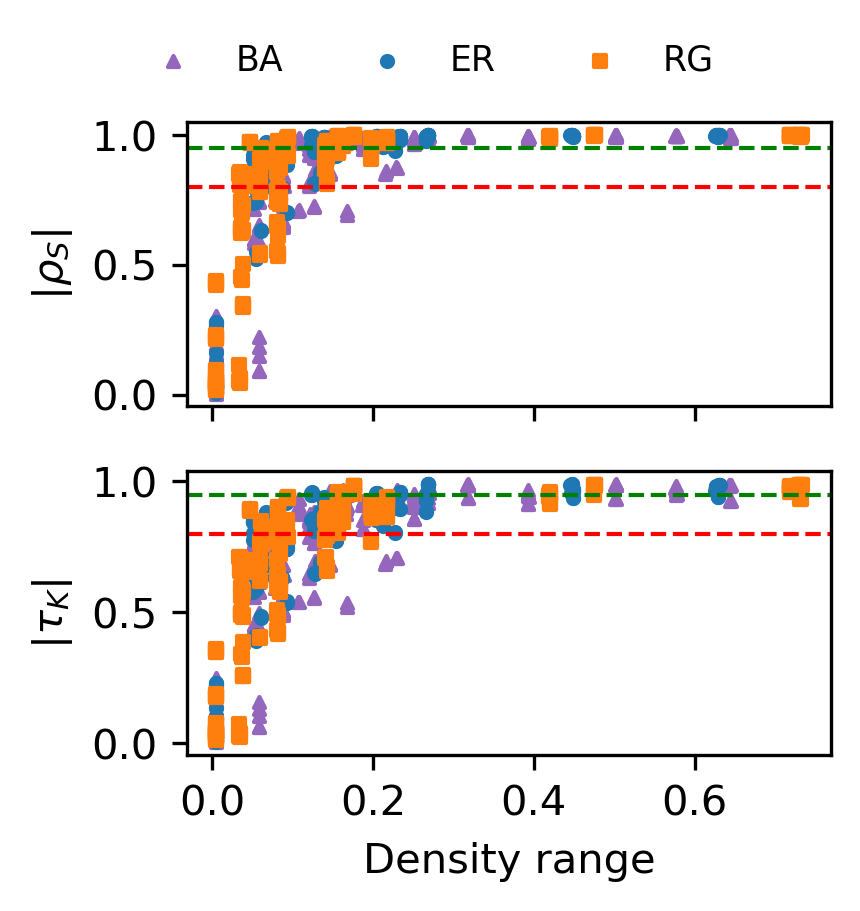
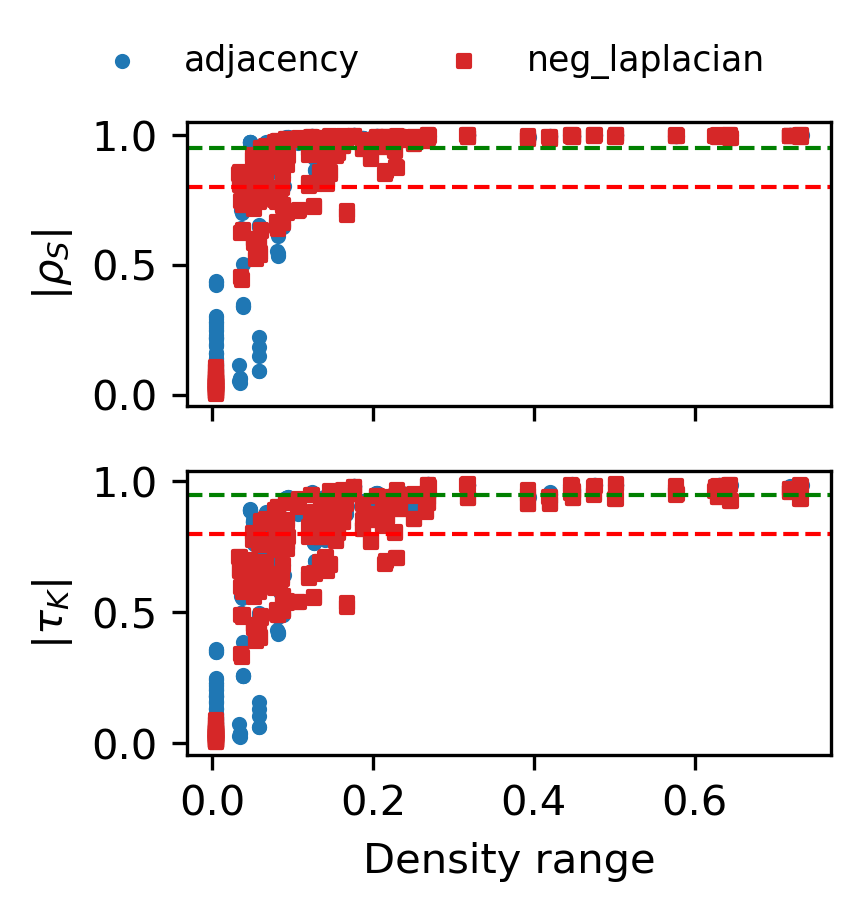
before changing horizontal lines to vertical in the plot_results.py file

diff --git a/plot_results.py b/plot_results.py
@@ -15,34 +15,45 @@ ALLOWED_SYSTEM_MATRIX_TYPES = {"adjacency", "neg_laplacian"}
 ALLOWED_GRAPH_TYPES = {"connected_ER", "connected_RG", "BA"}
 
 
-def validate_graph_types(graph_types):
+def validate_filter_values(filter_by, filter_values):
     """
-    Validate requested graph types.
+    Validate requested filter values.
 
     Parameters
     ----------
-    graph_types : list[str] or None
-        Requested graph types. If None, all allowed graph types are used.
+    filter_by : str
+        Either "graph_type" or "system_matrix_type".
+    filter_values : list[str], set[str], or None
+        Requested filter values. If None, all valid values for filter_by are used.
 
     Returns
     -------
     set[str]
-        Set of graph types to include.
+        Set of filter values to include.
     """
-    if graph_types is None:
-        return ALLOWED_GRAPH_TYPES
-
-    graph_types = set(graph_types)
-    invalid_graph_types = graph_types - ALLOWED_GRAPH_TYPES
-
-    if invalid_graph_types:
+    if filter_by == "graph_type":
+        allowed_values = ALLOWED_GRAPH_TYPES
+    elif filter_by == "system_matrix_type":
+        allowed_values = ALLOWED_SYSTEM_MATRIX_TYPES
+    else:
         raise ValueError(
-            "Invalid graph_type value(s): "
-            f"{sorted(invalid_graph_types)}. "
-            f"Allowed values are: {sorted(ALLOWED_GRAPH_TYPES)}"
+            f"Invalid filter_by value: {filter_by}. "
+            "Allowed values are: graph_type, system_matrix_type"
         )
 
-    return graph_types
+    if filter_values is None:
+        return allowed_values
+
+    filter_values = set(filter_values)
+    invalid_filter_values = filter_values - allowed_values
+
+    if invalid_filter_values:
+        raise ValueError(
+            f"Invalid {filter_by} value(s): {sorted(invalid_filter_values)}. "
+            f"Allowed values are: {sorted(allowed_values)}"
+        )
+
+    return filter_values
 
 
 def clean_latex_label(label):
@@ -58,11 +69,12 @@ def clean_latex_label(label):
     return rf"$|{label}|$"
 
 
-def extract_column_data(csv_file, y_col_num, graph_types=None):
+def extract_column_data(csv_file, y_col_num, filter_by="graph_type", filter_values=None):
     """
     Extract x = 14th column and y = user-selected column.
 
-    Rows are filtered by graph_type from column 3.
+    Rows are filtered either by graph_type from column 3 or by
+    system_matrix_type from column 2.
 
     Parameters
     ----------
@@ -70,8 +82,11 @@ def extract_column_data(csv_file, y_col_num, graph_types=None):
         Path to CSV file.
     y_col_num : int
         1-based column number to plot on y-axis.
-    graph_types : list[str], set[str], or None
-        Graph types to include. If None, all allowed graph types are included.
+    filter_by : str
+        Either "graph_type" or "system_matrix_type".
+    filter_values : list[str], set[str], or None
+        Values to include for the chosen filter. If None, all valid values
+        for filter_by are included.
 
     Returns
     -------
@@ -82,12 +97,23 @@ def extract_column_data(csv_file, y_col_num, graph_types=None):
     y_vals_abs : np.ndarray
         Absolute y-values for plotting.
     legend_label : str
-        Matplotlib legend label based on previous column label.
+        Matplotlib label based on previous column label.
     """
+    filter_values = validate_filter_values(filter_by, filter_values)
+
     x_idx = X_COL_NUM - 1
-    graph_type_idx = GRAPH_TYPE_COL_NUM - 1
     y_idx = y_col_num - 1
     label_idx = y_idx - 1
+
+    if filter_by == "graph_type":
+        filter_idx = GRAPH_TYPE_COL_NUM - 1
+    elif filter_by == "system_matrix_type":
+        filter_idx = SYSTEM_MATRIX_TYPE_COL_NUM - 1
+    else:
+        raise ValueError(
+            f"Invalid filter_by value: {filter_by}. "
+            "Allowed values are: graph_type, system_matrix_type"
+        )
 
     if y_col_num <= 1:
         raise ValueError(
@@ -103,12 +129,12 @@ def extract_column_data(csv_file, y_col_num, graph_types=None):
         reader = csv.reader(f)
 
         for row in reader:
-            if len(row) <= max(x_idx, graph_type_idx, y_idx, label_idx):
+            if len(row) <= max(x_idx, filter_idx, y_idx, label_idx):
                 continue
 
-            graph_type = row[graph_type_idx].strip()
+            filter_value = row[filter_idx].strip()
 
-            if graph_type not in graph_types:
+            if filter_value not in filter_values:
                 continue
 
             try:
@@ -125,14 +151,14 @@ def extract_column_data(csv_file, y_col_num, graph_types=None):
     if not x_vals:
         raise ValueError(
             f"No numeric data found for y-column {y_col_num} "
-            f"and graph_type filter {sorted(graph_types)}. "
+            f"with {filter_by} filter {sorted(filter_values)}. "
             "Check that the chosen column is numeric and that matching rows exist."
         )
-    else:
-        print(
-            f"Found {len(x_vals)} data points for column {y_col_num} "
-            f"with graph_type filter {sorted(graph_types)}."
-        )
+
+    print(
+        f"Found {len(x_vals)} data points for column {y_col_num} "
+        f"with {filter_by} filter {sorted(filter_values)}."
+    )
 
     legend_label = clean_latex_label(labels[0])
 
@@ -144,14 +170,23 @@ def extract_column_data(csv_file, y_col_num, graph_types=None):
     )
 
 
-def make_scatter_plot(csv_file, y_col_nums, save_filename=None, graph_types=None):
+def make_scatter_plot(
+    csv_file,
+    y_col_nums,
+    save_filename=None,
+    filter_by="graph_type",
+    filter_values=None,
+):
     """
     Make scatter plots for multiple selected y-columns.
 
     Each selected column is plotted in a separate subplot row.
-    Rows can be filtered by graph_type.
+    Rows can be filtered either by graph_type or by system_matrix_type.
 
-    Different graph types are shown using different marker shapes and colors.
+    Different filter values are shown using different marker shapes and colors.
+    If filter_by == "graph_type", shapes/colors correspond to graph types.
+    If filter_by == "system_matrix_type", shapes/colors correspond to matrix types.
+
     Legend entries are shown only once in a single row at the top of all plots.
 
     For each selected column, this function reports the maximum x-axis value
@@ -165,10 +200,13 @@ def make_scatter_plot(csv_file, y_col_nums, save_filename=None, graph_types=None
         1-based column numbers to plot.
     save_filename : str or None
         If provided, save the figure to this filename.
-    graph_types : list[str], set[str], or None
-        Graph types to include. If None, all allowed graph types are included.
+    filter_by : str
+        Either "graph_type" or "system_matrix_type".
+    filter_values : list[str], set[str], or None
+        Values to include for the chosen filter. If None, all valid values
+        for filter_by are included.
     """
-    graph_types = validate_graph_types(graph_types)
+    filter_values = validate_filter_values(filter_by, filter_values)
 
     graph_type_markers = {
         "connected_ER": "o",
@@ -181,6 +219,28 @@ def make_scatter_plot(csv_file, y_col_nums, save_filename=None, graph_types=None
         "connected_RG": "tab:orange",
         "BA": "tab:purple",
     }
+
+    system_matrix_type_markers = {
+        "adjacency": "o",
+        "neg_laplacian": "s",
+    }
+
+    system_matrix_type_colors = {
+        "adjacency": "tab:blue",
+        "neg_laplacian": "tab:red",
+    }
+
+    if filter_by == "graph_type":
+        filter_markers = graph_type_markers
+        filter_colors = graph_type_colors
+    elif filter_by == "system_matrix_type":
+        filter_markers = system_matrix_type_markers
+        filter_colors = system_matrix_type_colors
+    else:
+        raise ValueError(
+            f"Invalid filter_by value: {filter_by}. "
+            "Allowed values are: graph_type, system_matrix_type"
+        )
 
     report_thresholds = [0.95, 0.8]
 
@@ -206,7 +266,8 @@ def make_scatter_plot(csv_file, y_col_nums, save_filename=None, graph_types=None
 
     for ax_idx, (ax, y_col_num) in enumerate(zip(axes, y_col_nums)):
         print(f"\nSelected y-column number: {y_col_num}")
-        print(f"Selected graph_type filter: {sorted(graph_types)}")
+        print(f"Selected filter mode: {filter_by}")
+        print(f"Selected {filter_by} filter: {sorted(filter_values)}")
 
         column_x_values_below_threshold = {
             threshold: [] for threshold in report_thresholds
@@ -214,16 +275,20 @@ def make_scatter_plot(csv_file, y_col_nums, save_filename=None, graph_types=None
 
         ylabel = None
 
-        for graph_type in sorted(graph_types):
+        for filter_value in sorted(filter_values):
             x_vals, y_vals_raw, y_vals_abs, ylabel = extract_column_data(
                 csv_file,
                 y_col_num,
-                graph_types=[graph_type],
+                filter_by=filter_by,
+                filter_values=[filter_value],
             )
 
-            legend_label = graph_type.replace("connected_", "")
+            if filter_by == "graph_type":
+                legend_label = filter_value.replace("connected_", "")
+            else:
+                legend_label = filter_value
 
-            print(f"\nGraph type: {graph_type}")
+            print(f"\n{filter_by}: {filter_value}")
             print("First 10 raw values of chosen y-column:")
             print(y_vals_raw[:10])
 
@@ -239,24 +304,22 @@ def make_scatter_plot(csv_file, y_col_nums, save_filename=None, graph_types=None
                     )
 
                     print(
-                        f"Maximum x-axis value with |coefficient| < "
+                        f"Maximum x-axis value with coefficient < "
                         f"{threshold}: {max_x_below_threshold}"
                     )
                 else:
-                    print(
-                        f"No points found with |coefficient| < {threshold}"
-                    )
+                    print(f"No points found with coefficient < {threshold}")
 
             scatter = ax.scatter(
                 x_vals,
                 y_vals_abs,
                 s=7,
-                marker=graph_type_markers[graph_type],
-                color=graph_type_colors[graph_type],
+                marker=filter_markers[filter_value],
+                color=filter_colors[filter_value],
                 label=legend_label,
             )
 
-            # Add graph type legend entries only once
+            # Add legend entries only once
             if ax_idx == 0:
                 legend_handles.append(scatter)
                 legend_labels.append(legend_label)
@@ -269,12 +332,12 @@ def make_scatter_plot(csv_file, y_col_nums, save_filename=None, graph_types=None
                 )
 
                 print(
-                    f"Overall maximum x-axis value with |coefficient| < "
+                    f"Overall maximum x-axis value with coefficient < "
                     f"{threshold}: {overall_max_x}"
                 )
             else:
                 print(
-                    f"Overall: no points found with |coefficient| < {threshold}"
+                    f"Overall: no points found with coefficient < {threshold}"
                 )
 
         # Horizontal reference lines
@@ -351,15 +414,40 @@ if __name__ == "__main__":
         help=(
             "Graph type(s) to include. "
             "Allowed values: connected_ER, connected_RG, BA. "
-            "Default: include all graph types."
+            "Default: include all graph types unless --system_matrix_type is used."
+        ),
+    )
+
+    parser.add_argument(
+        "--system_matrix_type",
+        nargs="+",
+        choices=sorted(ALLOWED_SYSTEM_MATRIX_TYPES),
+        default=None,
+        help=(
+            "System matrix type(s) to include. "
+            "Allowed values: adjacency, neg_laplacian. "
+            "If provided, colors and shapes correspond to system matrix type."
         ),
     )
 
     args = parser.parse_args()
 
+    if args.graph_type is not None and args.system_matrix_type is not None:
+        raise ValueError(
+            "Use either --graph_type or --system_matrix_type, not both."
+        )
+
+    if args.system_matrix_type is not None:
+        filter_by = "system_matrix_type"
+        filter_values = args.system_matrix_type
+    else:
+        filter_by = "graph_type"
+        filter_values = args.graph_type
+
     make_scatter_plot(
         args.csv,
         args.y_col_nums,
         save_filename=args.save_name,
-        graph_types=args.graph_type,
+        filter_by=filter_by,
+        filter_values=filter_values,
     )